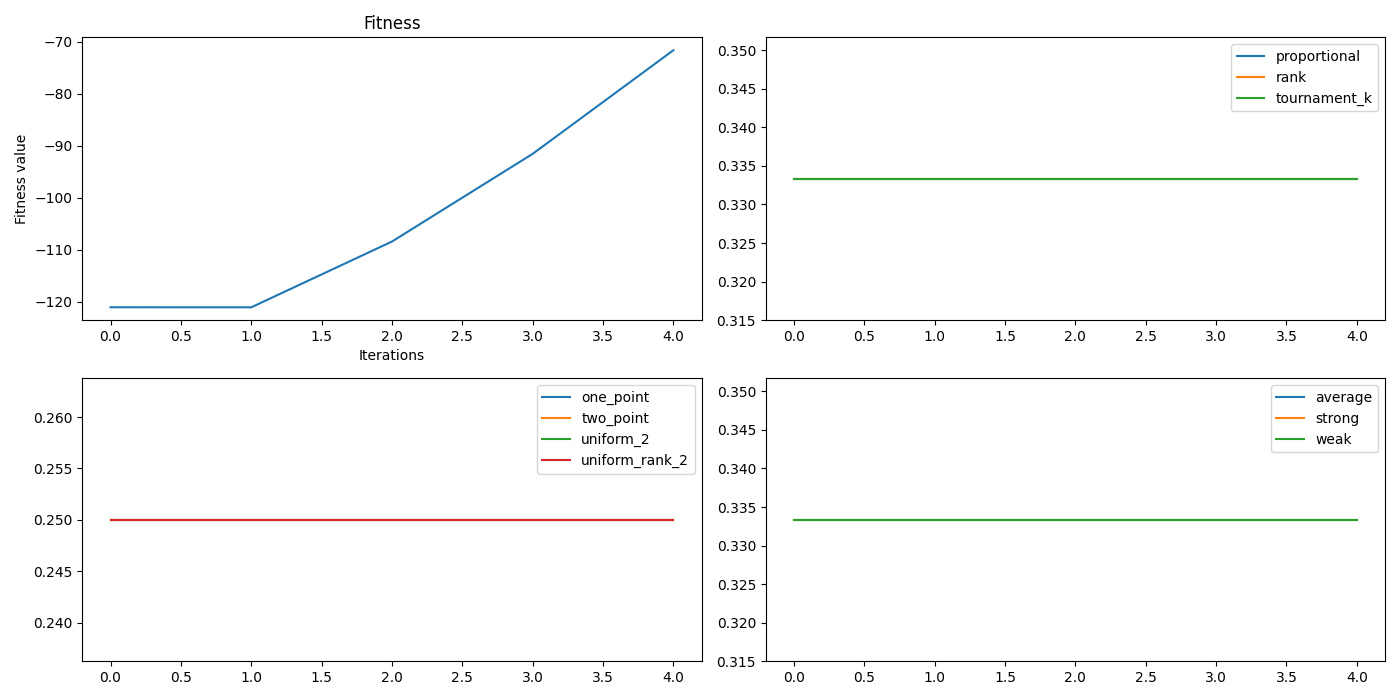
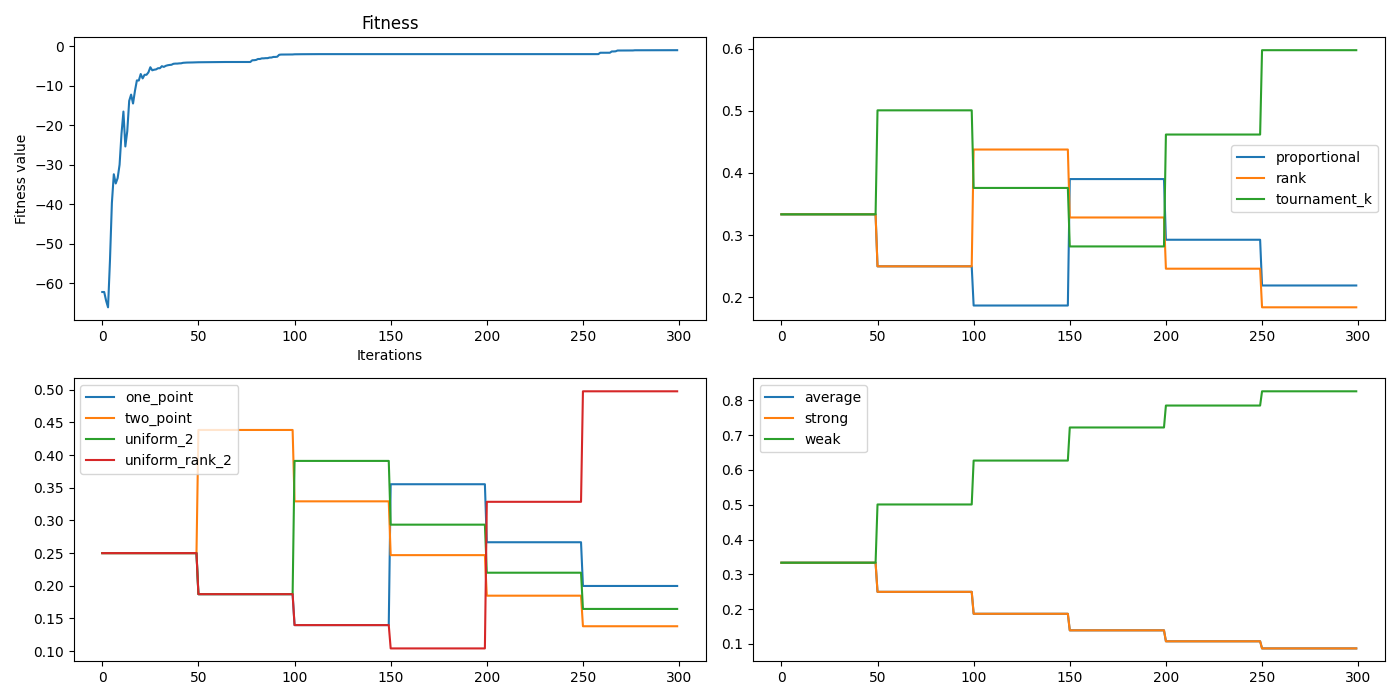
.

diff --git a/src/thefittest/optimizers/_my_adapt_ga_var_3.py b/src/thefittest/optimizers/_my_adapt_ga_var_3.py
@@ -153,7 +153,12 @@ class MyAdaptGAVar3(GeneticAlgorithm):
         )
         self._mutation_operators: NDArray = self._choice_operators(proba_dict=self._mutation_proba)
 
+        self._i: int = 0
         self._previous_fitness_i: List = []
+        self._previous_selection_operators: List = []
+        self._previous_crossover_operators: List = []
+        self._previous_mutation_operators: List = []
+        
 
     def _choice_operators(self: MyAdaptGAVar3, proba_dict: Dict["str", float]) -> NDArray:
         operators = list(proba_dict.keys())
@@ -167,7 +172,7 @@ class MyAdaptGAVar3(GeneticAlgorithm):
         operator: str,
         threshold: float,
     ) -> Dict["str", float]:
-        proba_dict[operator] += self._K / self._iters
+        proba_dict[operator] += (self._K*50) / self._iters
         proba_value = np.array(list(proba_dict.values()))
         proba_value -= self._K / (len(proba_dict) * self._iters)
         proba_value = proba_value.clip(threshold, 1)
@@ -178,15 +183,8 @@ class MyAdaptGAVar3(GeneticAlgorithm):
     def _find_fittest_operator(
         self: MyAdaptGAVar3, operators: NDArray, fitness: NDArray[np.float64]
     ) -> str:
-        fitness_correct = fitness * self._sign
-        keys, groups = numpy_group_by(group=fitness_correct, by=operators)
-
+        keys, groups = numpy_group_by(group=fitness, by=operators)
         mean_fit = np.array(list(map(np.mean, groups)))
-        print(keys, mean_fit, np.mean(fitness_correct))
-        delta = mean_fit - np.mean(fitness_correct)
-        delta_norm = zscore(delta)
-        print(delta_norm)
-
         fittest_operator = keys[np.argmax(mean_fit)]
         return fittest_operator
 
@@ -201,28 +199,48 @@ class MyAdaptGAVar3(GeneticAlgorithm):
     def _adapt(self: MyAdaptGAVar3) -> None:
         # print(self._previous_fitness_i, 1)
         # print(self._fitness_i, 2)
+        self._previous_fitness_i.append(self._fitness_i.copy())
+        self._previous_selection_operators.append(self._selection_operators)
+        self._previous_crossover_operators.append(self._crossover_operators)
+        self._previous_mutation_operators.append(self._mutation_operators)
 
-        s_fittest_oper = self._find_fittest_operator(self._selection_operators, self._fitness_i)
-        # self._selection_proba = self._get_new_proba(
-        #     self._selection_proba, s_fittest_oper, self._thresholds["selection"]
-        # )
+        if (self._i + 1) % 50 == 0:
+            previous_fitness = np.hstack(self._previous_fitness_i)
+            previous_selection_operators = np.hstack(self._previous_selection_operators)
+            previous_crossover_operators = np.hstack(self._previous_crossover_operators)
+            previous_mutation_operators = np.hstack(self._previous_mutation_operators)
+            print(self._i)
+            print(previous_fitness.shape)
+            print(previous_selection_operators.shape)
+            print(previous_crossover_operators.shape)
+            print(previous_mutation_operators.shape)
 
-        # c_fittest_oper = self._find_fittest_operator(self._crossover_operators, self._fitness_i)
-        # self._crossover_proba = self._get_new_proba(
-        #     self._crossover_proba, c_fittest_oper, self._thresholds["crossover"]
-        # )
+            s_fittest_oper = self._find_fittest_operator(self._selection_operators, self._fitness_i)
+            self._selection_proba = self._get_new_proba(
+                self._selection_proba, s_fittest_oper, self._thresholds["selection"]
+                )
 
-        # m_fittest_oper = self._find_fittest_operator(self._mutation_operators, self._fitness_i)
-        # self._mutation_proba = self._get_new_proba(
-        #     self._mutation_proba, m_fittest_oper, self._thresholds["mutation"]
-        # )
+            c_fittest_oper = self._find_fittest_operator(self._crossover_operators, self._fitness_i)
+            self._crossover_proba = self._get_new_proba(
+                self._crossover_proba, c_fittest_oper, self._thresholds["crossover"]
+            )
 
-        self._selection_operators = self._choice_operators(proba_dict=self._selection_proba)
-        self._crossover_operators = self._choice_operators(proba_dict=self._crossover_proba)
-        self._mutation_operators = self._choice_operators(proba_dict=self._mutation_proba)
+            m_fittest_oper = self._find_fittest_operator(self._mutation_operators, self._fitness_i)
+            self._mutation_proba = self._get_new_proba(
+                self._mutation_proba, m_fittest_oper, self._thresholds["mutation"]
+            )
+
+            self._previous_fitness_i = []
+            self._previous_selection_operators = []
+            self._previous_crossover_operators = []
+            self._previous_mutation_operators = []
+
+            self._selection_operators = self._choice_operators(proba_dict=self._selection_proba)
+            self._crossover_operators = self._choice_operators(proba_dict=self._crossover_proba)
+            self._mutation_operators = self._choice_operators(proba_dict=self._mutation_proba)
+        self._i += 1
 
     def _get_new_population(self: MyAdaptGAVar3) -> None:
-        self._previous_fitness_i = self._fitness_i.copy()
         self._population_g_i = np.array(
             [
                 self._get_new_individ_g(

diff --git a/src/test_my_adapt_var3.py b/src/test_my_adapt_var3.py
@@ -13,8 +13,8 @@ left_border = -5.0
 right_border = 5.0
 n_bits_per_variable = 32
 
-number_of_iterations = 5
-population_size = 20
+number_of_iterations = 300
+population_size = 500
 
 left_border_array = np.full(shape=n_dimension, fill_value=left_border, dtype=np.float64)
 right_border_array = np.full(shape=n_dimension, fill_value=right_border, dtype=np.float64)
